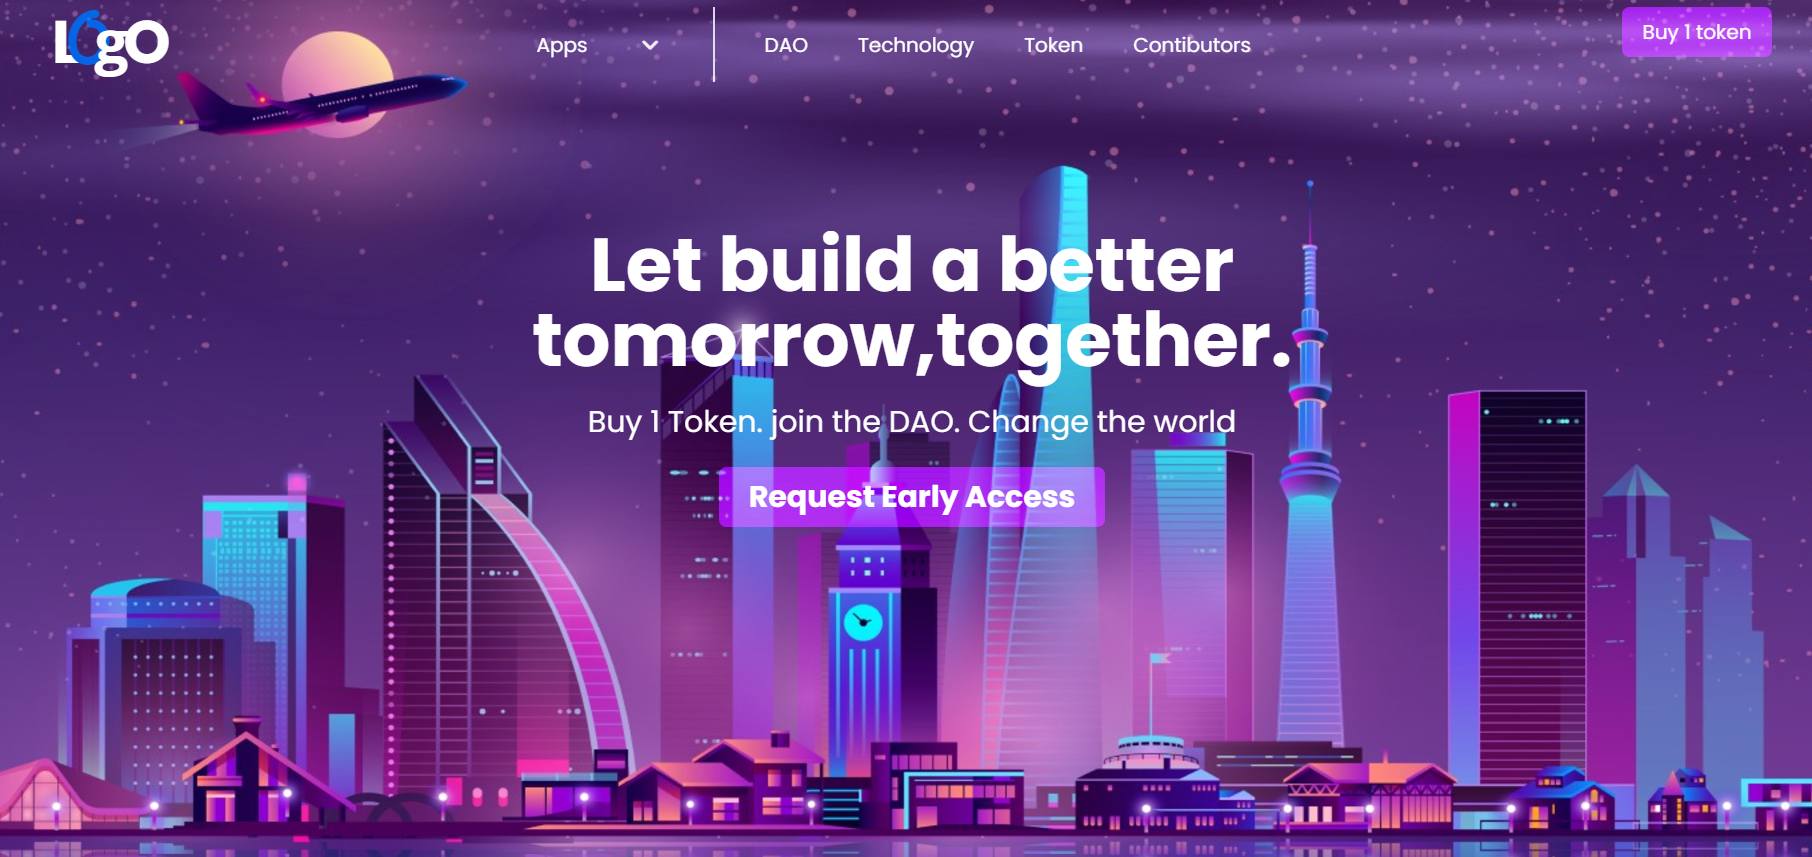
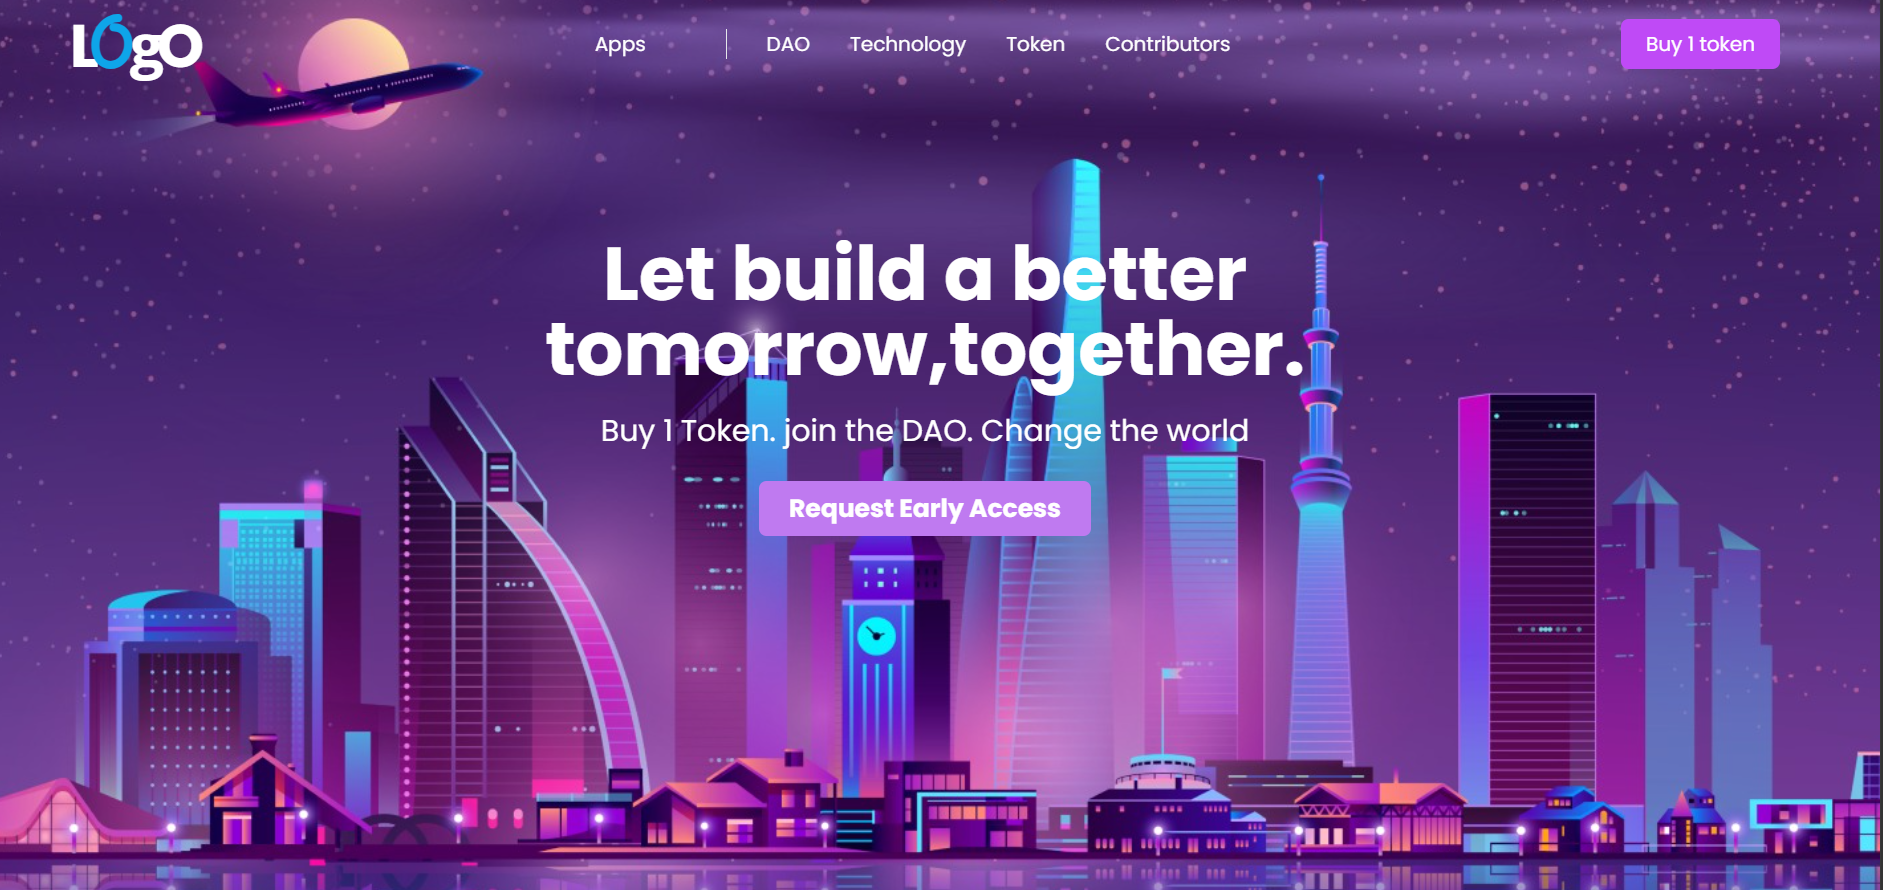
first commit

diff --git a/index.html b/index.html
@@ -1,81 +1,74 @@
 <!DOCTYPE html>
 <html lang="en">
 <head>
-    <meta charset="UTF-8">
-    <meta name="viewport" content="width=device-width, initial-scale=1.0">
-    <!-- font ossam -->
-     <link rel="stylesheet" href="https://cdnjs.cloudflare.com/ajax/libs/font-awesome/7.0.1/css/all.min.css" integrity="sha512-2SwdPD6INVrV/lHTZbO2nodKhrnDdJK9/kg2XD1r9uGqPo1cUbujc+IYdlYdEErWNu69gVcYgdxlmVmzTWnetw==" crossorigin="anonymous" referrerpolicy="no-referrer" />
-      <!-- google fonts -->
-     <link rel="preconnect" href="https://fonts.googleapis.com">
-<link rel="preconnect" href="https://fonts.gstatic.com" crossorigin>
+  <meta charset="UTF-8">
+  <meta name="viewport" content="width=device-width, initial-scale=1.0">
+  <link rel="preconnect" href="https://fonts.gstatic.com" crossorigin>
 <link href="https://fonts.googleapis.com/css2?family=Michroma&family=Momo+Signature&family=Open+Sans:ital,wght@0,300..800;1,300..800&family=Orbitron:wght@400..900&family=Poppins:ital,wght@0,100;0,200;0,300;0,400;0,500;0,600;0,700;0,800;0,900;1,100;1,200;1,300;1,400;1,500;1,600;1,700;1,800;1,900&display=swap" rel="stylesheet">
-<!-- tailwind -->
-
- <script src="https://cdn.jsdelivr.net/npm/@tailwindcss/browser@4"></script>
- <script src="https://cdn.tailwindcss.com"></script>
-
-<script>
-      tailwind.config = {
-        theme: {
-          extend: {
-            fontFamily: {
-              poppins:["Poppins","sans-serif"],
-               fonts:["Momo Signature","cursive"],
-               fontss:["Open Sans", "sans-serif"],
-            },
+  <script src="https://cdn.tailwindcss.com"></script>
+  <script src="https://cdn.jsdelivr.net/npm/@tailwindcss/browser@4"></script>
+  <script>
+    tailwind.config = {
+      theme: {
+        extend: {
+          fontFamily: {
+            poppins: ["Poppins", "sans-serif"],
+            fonts:["Momo Signature","cursive"],
+            opensans: ["Open Sans", "sans-serif"],
           },
         },
-      };
-    </script>
-    <title>Document</title>
+      },
+    };
+  </script>
+  <title>Crypto</title>
 </head>
-<body>
-    <main class=" relative">
-        <img src="./73fd7a7e-5524-4b16-b022-c6ed7484732c.jpg" alt="" class="w-full h-screen absolute mix-blend-overlay">
-        <nav class="px-20 py-4 flex justify-between">
-            <h1 class="text-5xl text-white font-poppins font-bold ">L<span class="text-5xl text-sky-500 font-fonts -ml-3 ">0</span><span class="text-5xl text-white font-fontss -ml-3">g</span><span class="text-5xl text-white font-poppins -m-1">O</span></h1>
-                <ul class="hidden  xl:flex items-center gap-10 text-white font-poppins">
-                    <li class="cursor-pointr hover:text-black hover:underline" >Apps</li>
-                    <li><i class="fa-solid fa-angle-down" style="color: rgb(242, 242, 241);"></i></li>
-                    <li class="border border-r h-15" ></li>
-                    <li>DAO</li>
-                    <li>Technology</li>
-                    <li>Token</li>
-                    <li>Contibutors</li>
-                </ul>
-            <div class="hidden xl:flex">
-              <button class="text-white h-10 w-30   bg-[#BF7AF0] rounded-md font-poppins">Buy 1 token</button>
-            </div>
-            <div class="xl:hidden flex gap-4 text-2xl items-center">
-                  <i class="fa-solid fa-plane-up" style="color: rgb(242, 242, 241);"></i>
-              <span><i class="fa-solid fa-ellipsis-vertical " style="color: rgb(242, 242, 241);"></i></span>
-          
-              
-            </div>
-                     
-                
+<body class="font-poppins">
+  <div class="relative min-h-screen">
+    <div class="absolute inset-0">
+      <img src="./73fd7a7e-5524-4b16-b022-c6ed7484732c.jpg"
+           class="w-full h-full object-cover mix-blend-overlay">
+    </div>
+    <div class="relative z-10">
+      <header class="flex justify-between items-center px-6 md:px-20 py-4 text-white">
+        <h1 class="text-4xl md:text-5xl font-bold">
+          L<span class="text-sky-500 font-fonts -ml-2">0</span>
+          <span class=" font-opensans -ml-3">g</span>
+          <span class="-ml-4">O</span>
+        </h1>
+        <nav class="hidden xl:flex items-center gap-8">
+          <span class="hover:underline cursor-pointer">Apps</span>
+          <i class="fa-solid fa-angle-down"></i>
+          <span class="h-6 border-r"></span>
+          <span class="hover:underline cursor-pointer">DAO</span>
+          <span class="hover:underline cursor-pointer">Technology</span>
+          <span class="hover:underline cursor-pointer">Token</span>
+          <span class="hover:underline cursor-pointer">Contributors</span>
         </nav>
-        <section class="flex justify-center items-center   mt-25 ">
-            <div class="text-white  font-poppins  text-center"> 
-               <h1 class="text-[25px] md:text-6xl  font-bold  ">Let build a better <br>
-            tomorrow,together.</h1> 
-            
-          <p class="text-center text-white lg:text-2xl font-poppins mt-5  text-[15px] md:text-2x px-6 "> Buy 1 Token. join the DAO. Change the world</p>
-          
-          <button class="bg-[#BF7AF0]  px-6 py-2 rounded-md mt-5 text-[13px] md:text-2xl font-bold ">Request Early Access</button>
-
-            </div>
-
-
-    
-            
-    
-           
-            
-            
-        </section>
-    </main>
-    
+        <div class="hidden xl:block">
+          <button class="bg-[#BF4AF6] px-5 py-2 rounded-md hover:text-blue-700 cursor-pointer transition-transform hover:scale-110 duration-200">
+            Buy 1 token
+          </button>
+        </div>
+        <div class="xl:hidden flex items-center gap-4 text-xl">
+          <i class="fa-solid fa-plane-up"></i>
+          <i class="fa-solid fa-ellipsis-vertical"></i>
+        </div>
+      </header>
+      <section class="flex items-center justify-center text-center text-white px-6 mt-20 md:mt-28">
+        <div class="max-w-3xl">
+          <h1 class="text-2xl md:text-6xl font-bold leading-tight">
+            Let build a better <br>
+            tomorrow,together.
+          </h1>
+          <p class="mt-5 text-sm md:text-2xl">
+            Buy 1 Token. join the DAO. Change the world
+          </p>
+          <button class="mt-6 bg-[#BF7AF0] px-6 py-2 rounded-md font-bold text-sm md:text-xl hover:text-blue-700 cursor-pointer transition-transform hover:scale-110 duration-200">
+            Request Early Access
+          </button>
+        </div>
+      </section>
+    </div>
+  </div>
 </body>
 </html>
-   

diff --git a/readme.md b/readme.md
@@ -1,77 +1,78 @@
-# 🚀 Project Name – Build the Future, Together
+# 🚀 Crypto Landing Page
 
-> A modern, responsive landing page designed with elegance, performance, and scalability in mind.
+A modern and responsive **Crypto Landing Page** built using **HTML** and **Tailwind CSS**, designed to showcase a futuristic Web3/DAO-based platform. This project focuses on clean UI, typography, and responsive design principles.
 
----
+## 📌 Features
 
-## 🌟 Overview
-
-This project is a visually stunning and fully responsive landing page built using **HTML, Tailwind CSS, and modern UI practices**. It focuses on clean design, smooth layout, and a strong first impression — perfect for startups, crypto platforms, or tech products.
-
----
-
-## ✨ Features
-
-* 🎯 Clean and modern UI design
-* 📱 Fully responsive (Mobile, Tablet, Desktop)
-* ⚡ Fast performance with Tailwind CSS
-* 🎨 Custom fonts and stylish typography
-* 🧭 Responsive navigation bar
-* 🌄 Hero section with background image & overlay
-* 🔘 Call-to-action buttons
-* 🧩 Scalable and easy-to-edit structure
-
----
+* ⚡ Fully responsive layout (mobile → desktop)
+* 🎨 Modern UI with custom fonts and styling
+* 🌌 Background image with blend effects
+* 🧭 Navigation bar with adaptive menu
+* 🔘 Call-to-action buttons with hover animations
+* 🪶 Lightweight and fast (no heavy frameworks)
 
 ## 🛠 Technologies Used
 
-* **HTML5** – Structure
-* **Tailwind CSS** – Styling
-* **Font Awesome** – Icons
-* **Google Fonts** – Typography
+* **HTML5**
+* **Tailwind CSS (CDN)**
+* **Google Fonts**
 
----
-
-preview
-
-[live](https://anandhues2004-kerala.github.io/-Build-the-Future/)
-
-
+  * Poppins
+  * Open Sans
+  * Orbitron
+  * Michroma
+  * Momo Signature
+* **Font Awesome Icons**
 ![img](./image.png)
+## 📂 Project Structure
+
 ```
-📁 project-folder
+project-folder/
 │── index.html
-│── /images
-│── /assets
-│── README.md
+│── assets/
+│   └── background-image.jpg
 ```
 
----
+## 🚀 Getting Started
 
-```
+1. Clone the repository:
 
-### 2⃣ Open the project
+   ```bash
+   git clone https://github.com/your-username/crypto-landing-page.git
+   ```
 
-Simply open `index.html` in your browser.
+2. Navigate to the project folder:
 
----
+   ```bash
+   cd crypto-landing-page
+   ```
 
-## 🎯 Usage
+3. Open `index.html` in your browser.
 
-* Customize text, images, and branding easily
-* Modify Tailwind classes for design changes
-* Extend sections like Features, Pricing, Footer
+## 💡 Customization
 
----
+* Replace the background image in the `<img>` tag.
+* Modify colors in Tailwind classes (e.g., `bg-[#BF4AF6]`).
+* Update text content to match your project or brand.
+* Extend Tailwind config for additional fonts or styles.
 
-## 📸 Preview
+## 📱 Responsive Design
 
-A clean hero section with:
+The layout adapts across:
 
-* Bold heading
-* Subheading text
-* CTA button
-* Background image with overlay
+* Mobile devices 📱
+* Tablets 📲
+* Large screens 💻
 
----
+## 🎯 Purpose
 
+This project is ideal for:
+
+* Practicing Tailwind CSS
+* Building Web3/crypto-themed UIs
+* Creating landing page templates
+* Frontend portfolio projects
+
+## 📄 License
+
+This project is open-source and available under the **MIT License**.
